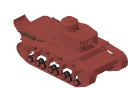
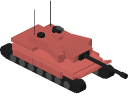
Frontline v4.35/v4.36: Schützenpanzer (Puma) und Kampfpanzer (Leopard 2) als eigene gerenderte 3D-Modelle
Claude-Session: https://claude.ai/code/session_01D6usvGCse3atXHSLSnmZu5

diff --git a/frontline/tools/render-models/view.html b/frontline/tools/render-models/view.html
@@ -39,9 +39,74 @@ window.buildLB=()=>{
   // Sensorkugel unter der Nase
   add(new THREE.SphereGeometry(0.075,14,10),grey,0,0.17,0.43);
   return g;};
+window.buildPuma=()=>{
+  const team=new THREE.Color(window.TEAM||0x808080);
+  const M=(c,e)=>new THREE.MeshLambertMaterial({color:c,emissive:e||0x000000});
+  const body=M(team,team.clone().multiplyScalar(0.3)),top=M(team.clone().multiplyScalar(0.85),team.clone().multiplyScalar(0.22)),dark=M(0x2a2a2a),grey=M(0x6a6a6a),glass=M(0x25394d,0x0c1620);
+  const g=new THREE.Group();
+  const box=(w,h,d,mat,x,y,z,rx=0,ry=0,rz=0)=>{const m=new THREE.Mesh(new THREE.BoxGeometry(w,h,d),mat);m.position.set(x,y,z);m.rotation.set(rx,ry,rz);g.add(m);return m;};
+  const cyl=(r,l,mat,x,y,z,rx=0,ry=0,rz=0)=>{const m=new THREE.Mesh(new THREE.CylinderGeometry(r,r,l,14),mat);m.position.set(x,y,z);m.rotation.set(rx,ry,rz);g.add(m);return m;};
+  // Wanne, Bug abgeschrägt (Front = +Z), Heckdeck
+  box(0.78,0.22,1.60,body,0,0.30,-0.05);
+  box(0.74,0.06,0.50,body,0,0.37,0.86,-0.42,0,0);
+  box(0.68,0.10,1.05,top,0,0.47,-0.28);
+  // Ketten, Seitenschürzen mit Modulen, Antriebs- und Leitrad
+  for(const sx of [-1,1]){
+    box(0.14,0.20,1.78,dark,sx*0.36,0.13,-0.02);
+    box(0.05,0.28,1.38,body,sx*0.44,0.29,-0.06);
+    box(0.06,0.20,0.30,top,sx*0.45,0.31,0.50);
+    for(const z of [0.86,-0.88]) cyl(0.11,0.14,dark,sx*0.36,0.13,z,0,0,Math.PI/2);
+    for(let i=0;i<5;i++) cyl(0.07,0.15,grey,sx*0.36,0.10,0.55-i*0.30,0,0,Math.PI/2);
+  }
+  // Heckrampe und Front-Scheinwerfer
+  box(0.5,0.18,0.04,dark,0,0.30,-0.86);
+  for(const sx of [-1,1]) box(0.08,0.06,0.05,glass,sx*0.30,0.34,0.98);
+  // Turm (leicht vor der Mitte), Blende, Maschinenkanone rechts, Sensorkopf, Antenne
+  box(0.50,0.17,0.62,top,0,0.66,0.12);
+  box(0.46,0.13,0.20,top,0,0.67,0.46,0.25,0,0);
+  cyl(0.032,0.80,dark,0.12,0.66,0.88,Math.PI/2);
+  cyl(0.045,0.10,dark,0.12,0.66,0.52,Math.PI/2);
+  box(0.12,0.10,0.14,dark,-0.12,0.80,0.10);
+  box(0.07,0.05,0.07,glass,-0.12,0.86,0.10);
+  box(0.12,0.07,0.26,dark,-0.20,0.76,-0.12);
+  cyl(0.008,0.55,dark,-0.34,0.82,-0.78);
+  return g;};
+window.buildLeo=()=>{
+  const team=new THREE.Color(window.TEAM||0x808080);
+  const M=(c,e)=>new THREE.MeshLambertMaterial({color:c,emissive:e||0x000000});
+  const body=M(team,team.clone().multiplyScalar(0.3)),top=M(team.clone().multiplyScalar(0.85),team.clone().multiplyScalar(0.22)),dark=M(0x262626),grey=M(0x5a5a5a),glass=M(0x25394d,0x0c1620);
+  const g=new THREE.Group();
+  const box=(w,h,d,mat,x,y,z,rx=0,ry=0,rz=0)=>{const m=new THREE.Mesh(new THREE.BoxGeometry(w,h,d),mat);m.position.set(x,y,z);m.rotation.set(rx,ry,rz);g.add(m);return m;};
+  const cyl=(r,l,mat,x,y,z,rx=0,ry=0,rz=0,seg=14)=>{const m=new THREE.Mesh(new THREE.CylinderGeometry(r,r,l,seg),mat);m.position.set(x,y,z);m.rotation.set(rx,ry,rz);g.add(m);return m;};
+  // Wanne (Front = +Z) mit schräger Bugplatte und Heckdeck
+  box(0.84,0.20,1.70,body,0,0.30,0);
+  box(0.80,0.05,0.42,body,0,0.37,0.92,-0.45,0,0);
+  box(0.76,0.08,0.60,top,0,0.44,-0.62);
+  // Ketten, Laufrollen, Seitenschürzen (Moduleplatten)
+  for(const sx of [-1,1]){
+    box(0.17,0.22,1.92,dark,sx*0.40,0.14,0);
+    for(let i=0;i<7;i++) cyl(0.085,0.18,grey,sx*0.40,0.12,0.74-i*0.25,0,0,Math.PI/2);
+    for(const z of [1.00,-1.00]) cyl(0.12,0.18,dark,sx*0.40,0.17,z,0,0,Math.PI/2);
+    box(0.05,0.15,1.35,body,sx*0.50,0.30,-0.05);
+    for(let i=0;i<5;i++) box(0.055,0.13,0.24,top,sx*0.52,0.31,0.50-i*0.26);
+  }
+  // Turm: Keilform mit schrägen Seiten, Frontplatten, Blende
+  box(0.62,0.20,0.95,top,0,0.60,-0.02);
+  box(0.50,0.17,0.40,top,0,0.64,0.52,0.28,0,0);
+  box(0.26,0.12,0.22,dark,0,0.60,0.66);
+  for(const sx of [-1,1]) box(0.14,0.17,0.62,top,sx*0.31,0.60,0.22,0,sx*0.32,0);
+  // Rohr mit Mündung, Kommandantenluke mit MG, Ladeschütze, Antennen
+  cyl(0.040,1.15,dark,0,0.60,1.30,Math.PI/2);
+  cyl(0.055,0.12,dark,0,0.60,1.86,Math.PI/2);
+  cyl(0.10,0.07,dark,0.17,0.74,-0.18);
+  box(0.05,0.05,0.16,grey,0.17,0.80,-0.10);
+  cyl(0.08,0.05,dark,-0.18,0.72,-0.28);
+  box(0.12,0.06,0.20,top,0,0.73,0.0);
+  for(const [x,z] of [[0.22,-0.42],[-0.25,-0.40]]) cyl(0.007,0.60,dark,x,0.98,z);
+  return g;};
 window.loadModel=async(kind,url,mtl,tex)=>{
   let obj;
-  if(kind==='proc'){obj=window.buildLB();window.obj=obj;return true;}
+  if(kind==='proc'){obj=url==='puma'?window.buildPuma():url==='leo'?window.buildLeo():window.buildLB();window.obj=obj;return true;}
   if(kind==='fbx') obj=await new FBXLoader().loadAsync(url);
   else { const l=new OBJLoader(); if(mtl){const m=await new MTLLoader().loadAsync(mtl);m.preload();l.setMaterials(m);} obj=await l.loadAsync(url);}
   const team=new THREE.Color(window.TEAM||0x808080);

diff --git a/frontline/sw.js b/frontline/sw.js
@@ -1,6 +1,6 @@
 // Frontline Service Worker: network-first (immer die neueste Version), Cache nur als Offline-Fallback.
 // Bei Änderungen an Dateien CACHE_VERSION erhöhen, damit Clients die neue Version laden.
-const CACHE_VERSION = 'frontline-v46';
+const CACHE_VERSION = 'frontline-v48';
 const CACHE_PREFIX = 'frontline-';
 const CACHE_NAME = CACHE_VERSION;
 
@@ -236,6 +236,22 @@ const ASSETS = [
   './assets/iso/vehicles/littlebird-red-nw.png',
   './assets/iso/vehicles/littlebird-red-n.png',
   './assets/iso/vehicles/littlebird-red-ne.png',
+  './assets/iso/vehicles/ifv-blue-e.png',
+  './assets/iso/vehicles/ifv-blue-se.png',
+  './assets/iso/vehicles/ifv-blue-s.png',
+  './assets/iso/vehicles/ifv-blue-sw.png',
+  './assets/iso/vehicles/ifv-blue-w.png',
+  './assets/iso/vehicles/ifv-blue-nw.png',
+  './assets/iso/vehicles/ifv-blue-n.png',
+  './assets/iso/vehicles/ifv-blue-ne.png',
+  './assets/iso/vehicles/ifv-red-e.png',
+  './assets/iso/vehicles/ifv-red-se.png',
+  './assets/iso/vehicles/ifv-red-s.png',
+  './assets/iso/vehicles/ifv-red-sw.png',
+  './assets/iso/vehicles/ifv-red-w.png',
+  './assets/iso/vehicles/ifv-red-nw.png',
+  './assets/iso/vehicles/ifv-red-n.png',
+  './assets/iso/vehicles/ifv-red-ne.png',
   './js/render/minimap.js',
   './js/ui/controller.js',
   './js/ui/input.js',

diff --git a/frontline/js/render/isosprites.js b/frontline/js/render/isosprites.js
@@ -38,9 +38,9 @@ const TREE = load('trees/tree.png');
 // Fahrzeuge: je Modell und Team (0 = Blau, 1 = Rot) acht Bilder nach Bildschirmrichtung
 const SECTORS = ['e', 'se', 's', 'sw', 'w', 'nw', 'n', 'ne']; // 0° = rechts, im Uhrzeigersinn
 const TEAM_COLOR = ['blue', 'red'];
-const UNIT_MODEL = { truck: 'truck', engineer: 'pickup', tank: 'tank', gunship: 'apache', littlebird: 'littlebird' };
+const UNIT_MODEL = { truck: 'truck', engineer: 'pickup', tank: 'tank', gunship: 'apache', littlebird: 'littlebird', ifv: 'ifv' };
 // 3D-Modelle (T-12-Panzer, Attack Chopper), siehe assets/iso/README.md: span = Bildbreite in Einheitenradien, ax/ay = Bodenpunkt im Bild
-const MODEL_VIEW = { tank: { span: 4.2, ax: 64, ay: 64 }, apache: { span: 5, ax: 64, ay: 47 }, littlebird: { span: 5, ax: 64, ay: 55 } };
+const MODEL_VIEW = { tank: { span: 5.8, ax: 64, ay: 61 }, apache: { span: 5, ax: 64, ay: 47 }, littlebird: { span: 5, ax: 64, ay: 55 }, ifv: { span: 5, ax: 64, ay: 89 } };
 const VEHICLES = {};
 for (const model of new Set(Object.values(UNIT_MODEL))) {
   VEHICLES[model] = TEAM_COLOR.map((c) => SECTORS.map((s) => load(`vehicles/${model}-${c}-${s}.png`)));

diff --git a/frontline/PRD.md b/frontline/PRD.md
@@ -241,7 +241,7 @@ Direktfeuer richtet sich nach Trefferzahlen (volles Ziel); Seite = Winkel zur Fa
 - Nebel des Krieges: Unerkundet schwarz, erkundet abgedunkelt, gegnerische Einheiten nur in Sicht.
 - Platzierungsvorschau grün/rot mit Bauradien aller eigenen FOBs.
 - **Isometrische Ansicht** (Taste V, drehbar in 90°-Schritten mit `,` `.`): Boden schräg, Gebäude, Bäume und Fahrzeuge mit Höhe, Tiefensortierung, Hubschrauber schweben mit Schatten. Stadtgebäude (Häuser aus Kenney „City Kit Commercial“, Hallen und Fabriken aus „City Kit Industrial“; 3D-Modelle, vorgerendert isometrisch, Daten `js/render/isodata.js`), Bäume sowie LKW und Baufahrzeug (Team Blau/Rot, 8 Blickrichtungen) sind Bilder aus freien Kenney-Paketen (CC0, `assets/iso/`, Lizenztexte `assets/LICENSES/`, `js/render/isosprites.js`; `?sprites=0` schaltet auf die gezeichnete Variante). Spielgebäude und Panzer sind gezeichnet und mit Details versehen: Stadthäuser mit zwei Stockwerken, Fenstern, Tür, Balkon und Satteldach; Hallen mit Rolltoren und Fensterband; Fabriken mit großen Fenstern, Toren, Schornstein; FOB als **Zentrale** (Sockelbau mit Fensterband, Eingang mit Vordach, Leitstellenturm, Radar, Antennen, Flagge); Fahrzeughalle als **Panzerwerkstatt** (Tore mit Panzer, Teamband, Dachkran); Landeplatz mit H, Ring, Randfeuer, Windsack. Unter Zoom 0,5 entfallen Fenster und Türen (Leistung). Die Zeichnung ist pro Gebäudeart durch Sprites ersetzbar (`spriteOverrides` in `js/render/isobuild.js`).
-- **Grafik (Iso):** Kampfpanzer, AH-64 und Little Bird erscheinen in der isometrischen Ansicht als gerenderte 3D-Modelle (Panzer: „T-12“, CC0; Hubschrauber: „Attack Chopper“ von Geibu3D, CC BY 4.0, Namensnennung in `assets/LICENSES`), 8 Richtungen, Teamfarbe. Der **Little Bird** ist ein eigener, nach einem Foto nachgebauter Entwurf (`tools/render-models`). Schützenpanzer und Transporthubschrauber bleiben gemalt.
+- **Grafik (Iso):** Kampfpanzer (Leopard-2-Anmutung), Schützenpanzer (Puma-Anmutung), Little Bird und AH-64 erscheinen in der isometrischen Ansicht als gerenderte 3D-Modelle in 8 Richtungen und Teamfarbe. Panzer, Schützenpanzer und Little Bird sind eigene Entwürfe nach Fotos (Quelle und Ablauf: `tools/render-models`); der AH-64 ist „Attack Chopper“ von Geibu3D (CC BY 4.0, Namensnennung in `assets/LICENSES`). Der Transporthubschrauber bleibt gemalt.
 - Hilfe (F1) listet alle Tasten, auch V und Drehen.
 
 ## 9a. Karten und Karteneditor
@@ -306,6 +306,8 @@ Verhalten: Baufahrzeug setzt Baustellen, Schützen bauen Mauern aus getragenem B
 
 ## Änderungsverlauf
 
+- v4.36: **Kampfpanzer** als eigenes 3D-Modell (Leopard-2-Anmutung, ersetzt T-12). Cache v48.
+- v4.35: **Schützenpanzer** als eigenes 3D-Modell (Puma-Anmutung). Cache v47.
 - v4.34: **Little Bird** als gerendertes 3D-Modell (Eigenbau nach Foto). Cache v46.
 - v4.33: **Iso-Grafik:** 3D-Modelle für Kampfpanzer und AH-64 (T-12, Attack Chopper). Cache v45.
 - v4.32: **PRD:** Tabelle aller Waffen mit Schaden je Panzerklasse und Tabelle der KI-Konstanten. Cache v44.

diff --git a/frontline/assets/iso/README.md b/frontline/assets/iso/README.md
@@ -6,6 +6,8 @@ Eigene Entwürfe lassen sich austauschen: gleiche Dateinamen ersetzen oder die L
 
 Soldaten (units/): Kenney „Blocky Characters“ (Figur) mit Helm, Weste in Teamfarbe und Waffe (Gewehr aus dem „Blaster Kit“, RPG aus einfachen Formen) zusammengesetzt und in 8 Richtungen vorgerendert. Eigene Gebäude (team/): Zentrale aus „City Kit (Industrial)“ mit Teamflagge, Mörser und Flak aus dem „Tower Defense Kit“, Mauer und Tor aus dem „Castle Kit“, je Teamfarbe und Drehung der Ansicht vorgerendert (1 Modelleinheit = 1 Kachel). Drehen: js/render/isodata.js.
 
-Panzer und Kampfhubschrauber (vehicles/tank-*, vehicles/apache-*): 3D-Modelle „T-12 soviet light tank lowpoly“ (CC0, OpenGameArt) und „Attack Chopper“ von Cheese Animal Productions / Geibu3D (**CC BY 4.0**, OpenGameArt; Namensnennung siehe assets/LICENSES/Attack-Chopper-CC-BY-4.0.txt), mit three.js isometrisch (30° Höhe) in 8 Richtungen und Teamfarben gerendert. Je Modell sind alle 16 Bilder gleich zugeschnitten; Größe und Bodenpunkt stehen in `MODEL_VIEW` (js/render/isosprites.js). Neue Modelle: dieselben Dateinamen `<modell>-<blue|red>-<e|se|s|sw|w|nw|n|ne>.png` liefern und in `UNIT_MODEL`/`MODEL_VIEW` eintragen.
+Kampfhubschrauber (vehicles/apache-*): 3D-Modell „Attack Chopper“ von Cheese Animal Productions / Geibu3D (**CC BY 4.0**, OpenGameArt; Namensnennung siehe assets/LICENSES/Attack-Chopper-CC-BY-4.0.txt), mit three.js isometrisch (30° Höhe) in 8 Richtungen und Teamfarben gerendert. Je Modell sind alle 16 Bilder gleich zugeschnitten; Größe und Bodenpunkt stehen in `MODEL_VIEW` (js/render/isosprites.js). Neue Modelle: dieselben Dateinamen `<modell>-<blue|red>-<e|se|s|sw|w|nw|n|ne>.png` liefern und in `UNIT_MODEL`/`MODEL_VIEW` eintragen.
 
 Little Bird (vehicles/littlebird-*): eigenes, aus Grundformen nachgebautes 3D-Modell nach einem Foto des MH-6/AH-6 (`buildLB` in `tools/render-models/view.html`, `prodlb.mjs`), Teamfarben und 8 Richtungen wie oben; keine fremden Modelldaten, keine Lizenzauflagen.
+
+Schützenpanzer (vehicles/ifv-*, nach einem Foto des Puma) und Kampfpanzer (vehicles/tank-*, nach einem Bild eines Leopard 2 A7): eigene, aus Grundformen nachgebaute Modelle (`buildPuma`, `buildLeo` in `tools/render-models/view.html`; `prodpu.mjs`, `prodle.mjs`), 8 Richtungen und Teamfarben, keine fremden Modelldaten, keine Lizenzauflagen. Das frühere T-12-Modell (CC0) ist ersetzt.
